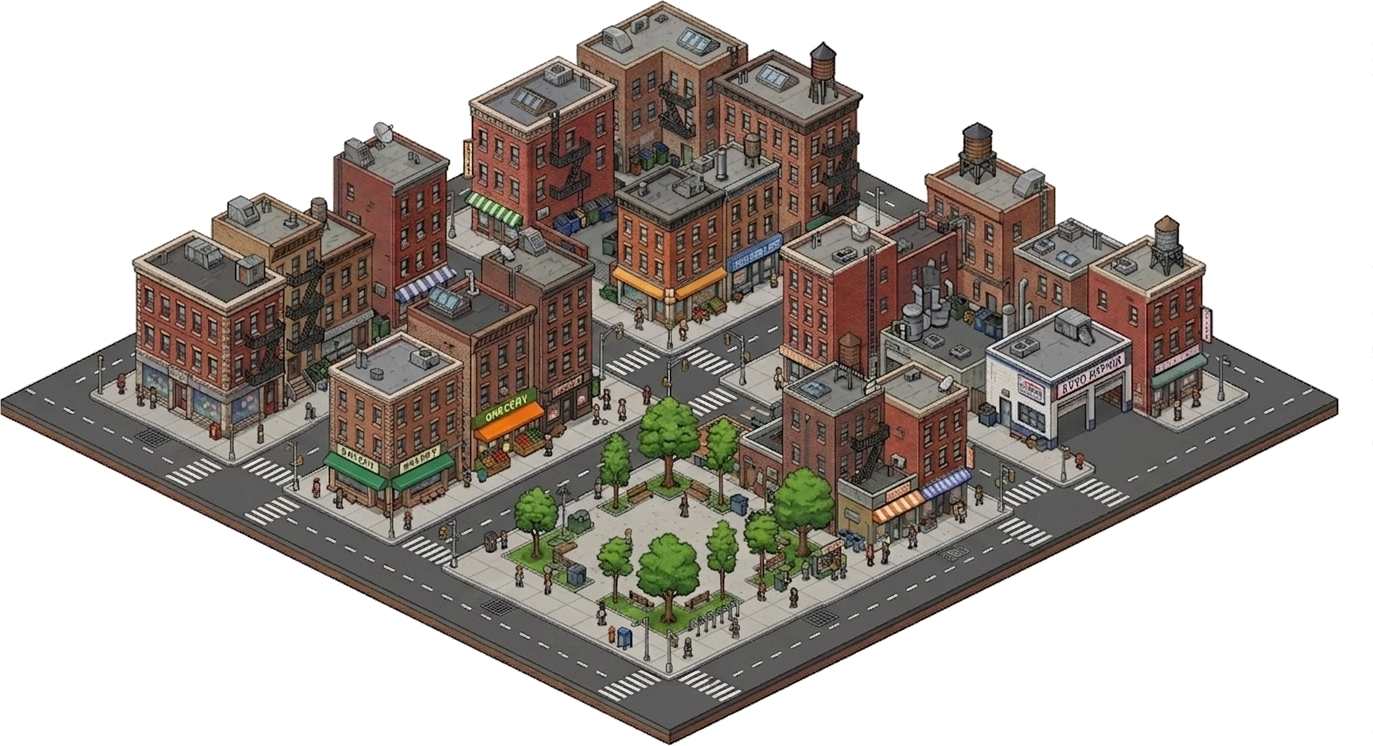
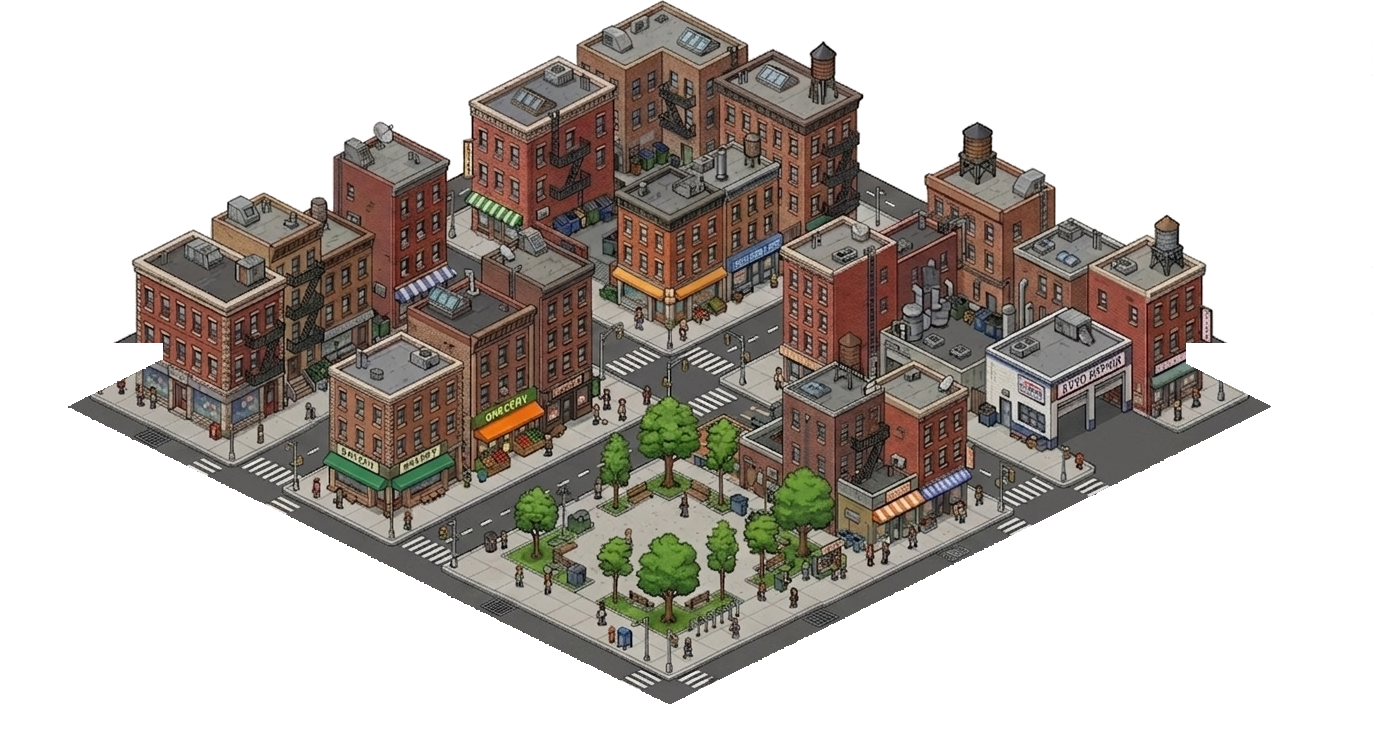
Stadt-Blocks: dunklen 3D-Sockel (Slab) an den Vorderkanten entfernt (untere Bildhaelfte erodiert, in-place -> Geometrie/Platzierung unveraendert) -> flacher Anschluss an den Boden

Changed region(s): [[0.0, 0.4625, 0.9789, 1.0]]

diff --git a/script.js b/script.js
@@ -6,7 +6,7 @@
 
 // Sichtbare Build-Marke: zeigt im Header "v7", sobald DIESE Datei geladen ist.
 // Bleibt im Header "v6" stehen, läuft noch eine alte (gecachte) script.js.
-const BUILD_MARKE = 'v73 – Luecken weg';
+const BUILD_MARKE = 'v74 – Block-Slab weg';
 
 // Einheitliche Anzeigehöhen der Figuren (px). Werden auf jede Pose angewandt,
 // damit Front-/Seiten-Sheets gleich groß wirken (unabhängig von der Sheet-Höhe).
